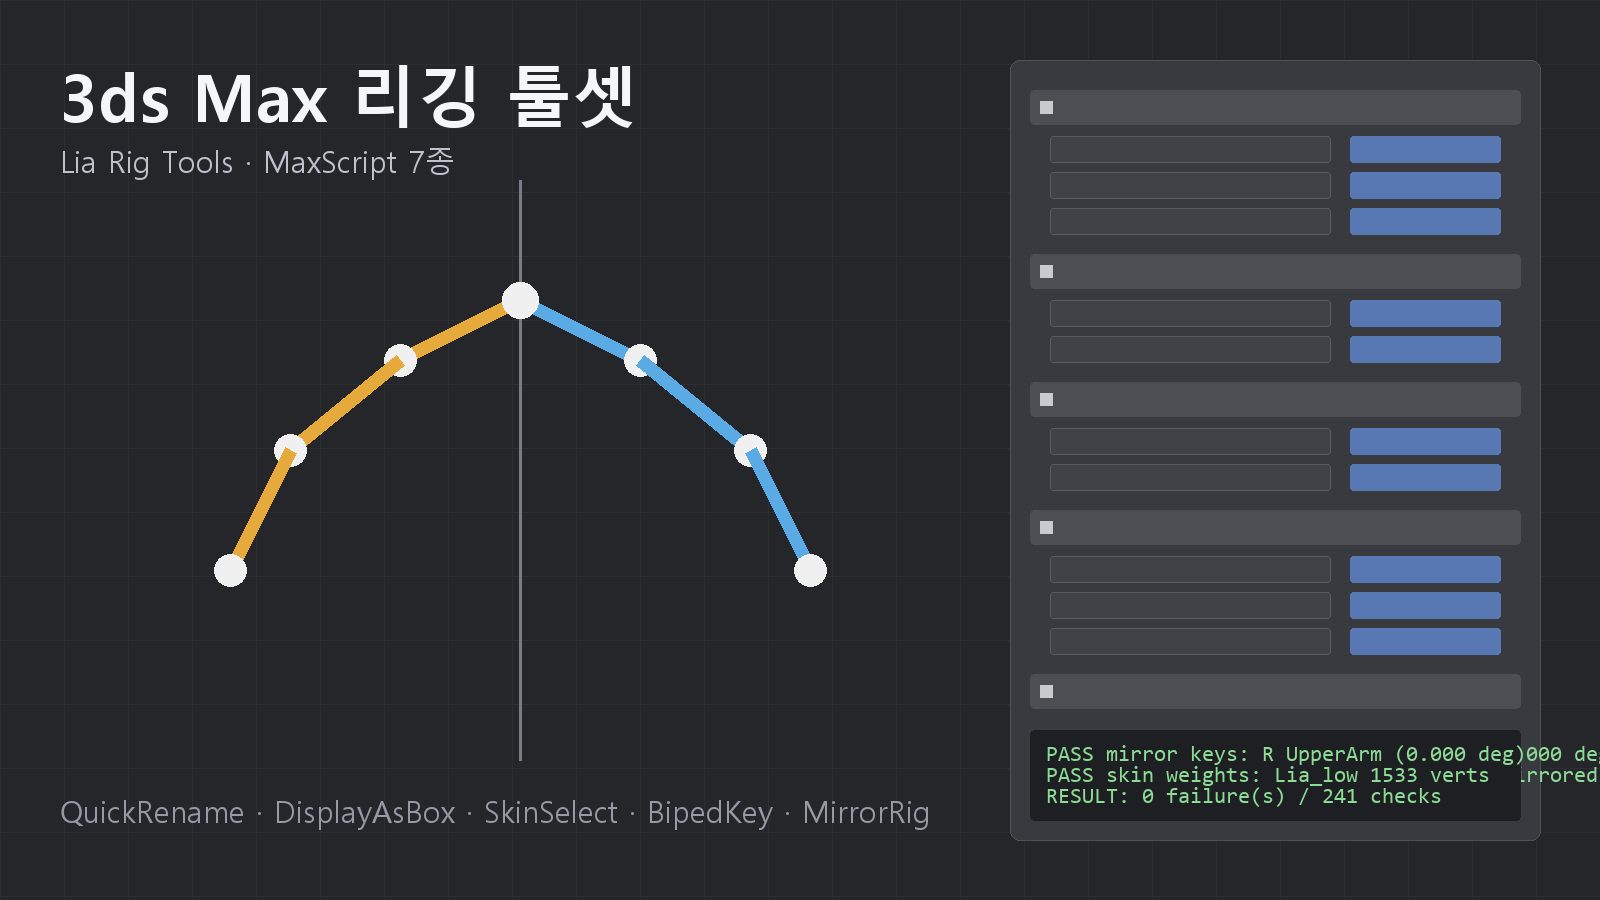
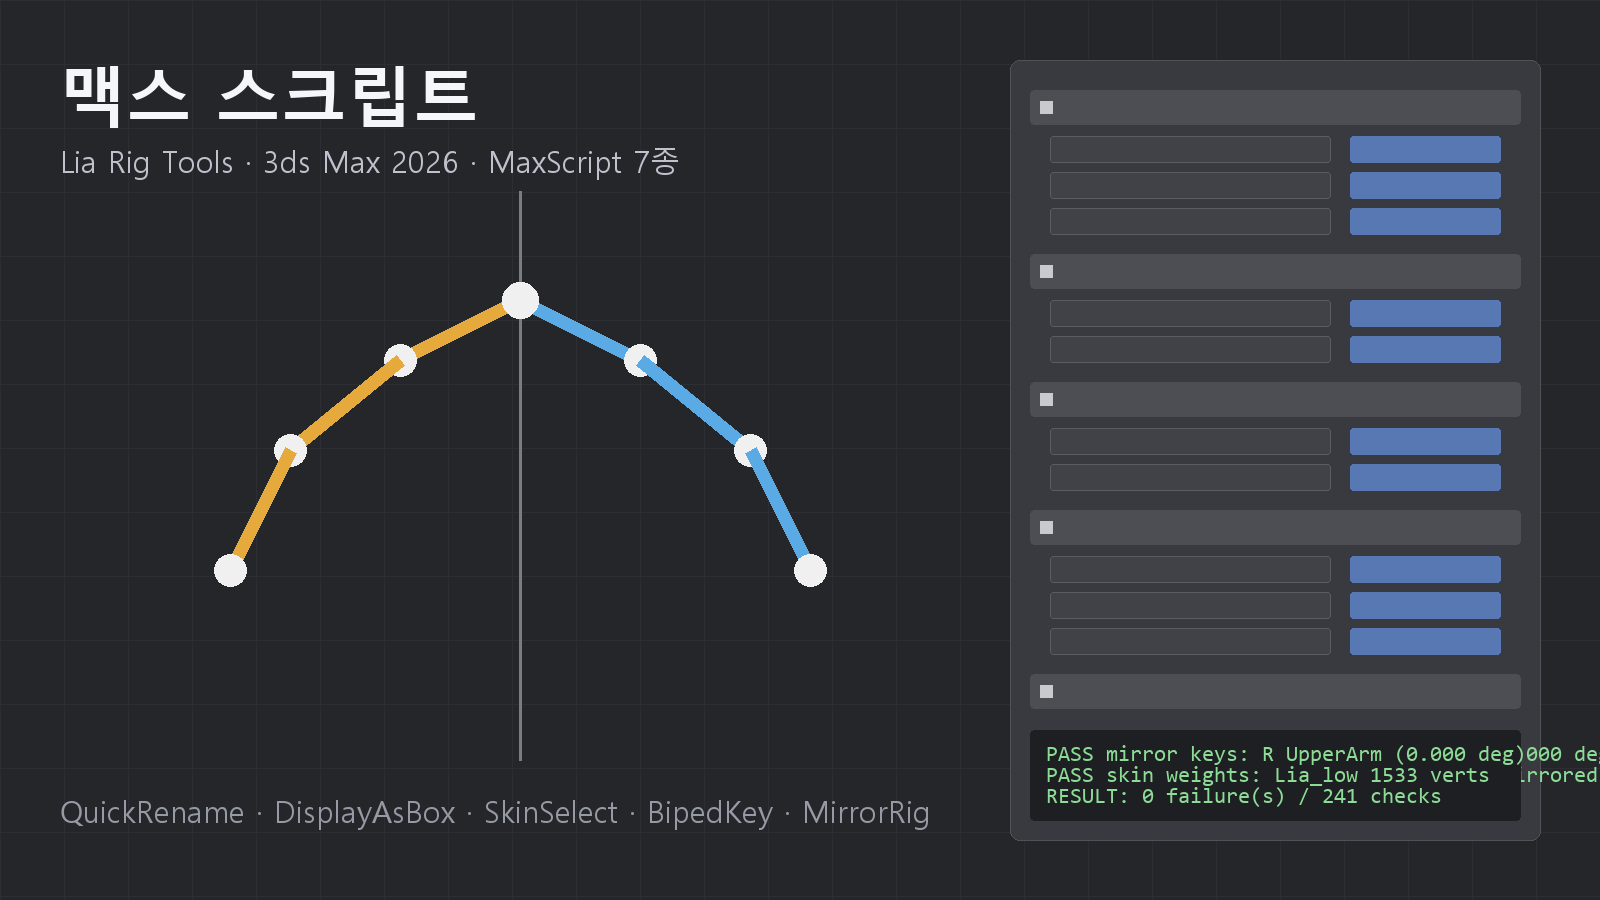
Rename rig toolset entry to MaxScript
Claude-Session: https://claude.ai/code/session_01F4L2TRfs1vY2stq9KBCXpP

Changed region(s): [[0.0312, 0.0622, 0.4375, 0.2178]]

diff --git a/scripts/locales.js b/scripts/locales.js
@@ -32,7 +32,6 @@ window.PORTFOLIO_LOCALES = {
     "2학기 기말영상": "2nd semester final video",
     "3. AI 제안을 검증하고 반려하기": "3. Verifying and Rejecting AI Proposals",
     "3. 도메인 판단은 사람이, 리서치와 구현은 에이전트가": "3. Domain judgment is done by people, research and implementation are done by agents.",
-    "3ds Max 리깅 툴셋 (Lia Rig Tools)": "3ds Max rigging toolset (Lia Rig Tools)",
     "3dsmaxbatch로 백업 리그에서 241개 항목 검사": "241 items inspected from backup rig with 3dsmaxbatch",
     "3개의 색상을 모아 다음 스테이지로 넘어가는 퍼즐 플랫포머입니다.": "It is a puzzle platformer where you collect 3 colors to move on to the next stage.",
     "3명": "3 people",
@@ -274,6 +273,7 @@ window.PORTFOLIO_LOCALES = {
     "렌더 파이프라인 전환은 단순 설정 변경이 아니라 머티리얼, 셰이더, 후처리를 함께 확인해야 합니다.": "Switching the render pipeline is not a simple change of settings; it requires checking materials, shaders, and post-processing together.",
     "리아 캐릭터 리깅 중 필요한 기능을 MaxScript 도구 7개로 만들어 실제 작업에 쓰고 있습니다. 요구사항 정의, 실기 테스트, 설계 결정을 맡았고 코드 작성은 Claude Code와 함께 진행했습니다.": "I created 7 MaxScript tools to provide the necessary functions while rigging Lia's character and are using them for actual work. I was responsible for requirements definition, practical testing, and design decisions, and code writing was done in collaboration with Claude Code.",
     "마우스 인터랙션을 활용해 플레이하는 액션 게임입니다.": "This is an action game played using mouse interaction.",
+    "맥스 스크립트 (Lia Rig Tools)": "MaxScript Tools (Lia Rig Tools)",
     "메뉴 항목": "menu item",
     "메이플 플랜 (MapleAlim)": "Maple Plan (MapleAlim)",
     "메이플스토리 캐릭터의 주간 보스 수익과 사냥 수익을 계산하고 일·주·월 숙제를 관리하는 웹 앱입니다. GitHub Pages와 Vercel 서버리스로 운영 중입니다.": "A web app that calculates weekly boss and hunting income for MapleStory characters and tracks daily, weekly, and monthly tasks. It runs on GitHub Pages and Vercel serverless.",
@@ -592,7 +592,6 @@ window.PORTFOLIO_LOCALES = {
     "2학기 기말영상": "2学期期末映像",
     "3. AI 제안을 검증하고 반려하기": "3. AI提案を検証して差し戻す",
     "3. 도메인 판단은 사람이, 리서치와 구현은 에이전트가": "3. ドメイン判断は人が、リサーチと実装はエージェントが",
-    "3ds Max 리깅 툴셋 (Lia Rig Tools)": "3ds Max リギングツールセット (Lia Rig Tools)",
     "3dsmaxbatch로 백업 리그에서 241개 항목 검사": "3dsmaxbatchでバックアップリグで241項目をチェックする",
     "3개의 색상을 모아 다음 스테이지로 넘어가는 퍼즐 플랫포머입니다.": "3色を集めて次のステージに進むパズルプラットフォーマーです。",
     "3명": "3人",
@@ -834,6 +833,7 @@ window.PORTFOLIO_LOCALES = {
     "렌더 파이프라인 전환은 단순 설정 변경이 아니라 머티리얼, 셰이더, 후처리를 함께 확인해야 합니다.": "レンダリングパイプラインの切り替えは単純設定の変更ではなく、マテリアル、シェーダ、後処理を一緒に確認する必要があります。",
     "리아 캐릭터 리깅 중 필요한 기능을 MaxScript 도구 7개로 만들어 실제 작업에 쓰고 있습니다. 요구사항 정의, 실기 테스트, 설계 결정을 맡았고 코드 작성은 Claude Code와 함께 진행했습니다.": "リアキャラクターのリギング中に必要な機能をMaxScriptツール7つにして、実際の作業に書いています。要件の定義、実技テスト、設計の決定を引き受け、コードの作成はClaude Codeと共に行われました。",
     "마우스 인터랙션을 활용해 플레이하는 액션 게임입니다.": "マウスインタラクションを活用してプレイするアクションゲームです。",
+    "맥스 스크립트 (Lia Rig Tools)": "MaxScript (Lia Rig Tools)",
     "메뉴 항목": "メニュー項目",
     "메이플 플랜 (MapleAlim)": "メープルプラン（MapleAlim）",
     "메이플스토리 캐릭터의 주간 보스 수익과 사냥 수익을 계산하고 일·주·월 숙제를 관리하는 웹 앱입니다. GitHub Pages와 Vercel 서버리스로 운영 중입니다.": "メイプルストーリーのキャラクターの週間ボス収益と狩り収益を計算し、日・週・月の課題を管理するウェブアプリです。GitHub PagesとVercelサーバーレスで運用中です。",

diff --git a/scripts/portfolio-data.js b/scripts/portfolio-data.js
@@ -212,7 +212,7 @@ window.PORTFOLIO_ITEMS = [
   {
     category: "ai",
     slug: "lia-rig-tools",
-    title: "3ds Max 리깅 툴셋 (Lia Rig Tools)",
+    title: "맥스 스크립트 (Lia Rig Tools)",
     status: "사용 중",
     tags: ["AI", "Claude Code", "MaxScript", "3ds Max", "Rigging", "Tool"],
     purpose: "개인 프로젝트 · 자작 캐릭터 리깅 중 3ds Max에 없거나 잘못 동작하는 기능을 MaxScript 도구 7개로 보완",

diff --git a/scripts/generate-locales.py b/scripts/generate-locales.py
@@ -43,6 +43,8 @@ POLISH = {
 }
 MANUAL_TRANSLATIONS = {
     "en": {
+        "맥스 스크립트 (Lia Rig Tools)":
+            "MaxScript Tools (Lia Rig Tools)",
         "사용 중":
             "In use",
         "실기 테스트":
@@ -211,6 +213,8 @@ MANUAL_TRANSLATIONS = {
             "Character left/right direction switching with the Blend Tree applied",
     },
     "ja": {
+        "맥스 스크립트 (Lia Rig Tools)":
+            "MaxScript (Lia Rig Tools)",
         "3. SkinSelectTools · 본 축을 아는 스킨 정점 선택":
             "3. SkinSelectTools · ボーン軸を知るスキン頂点選択",
         "SkinSelectTools.ms · 본 축 각도로 엣지를 나누고 방향을 유지하며 걷기":
